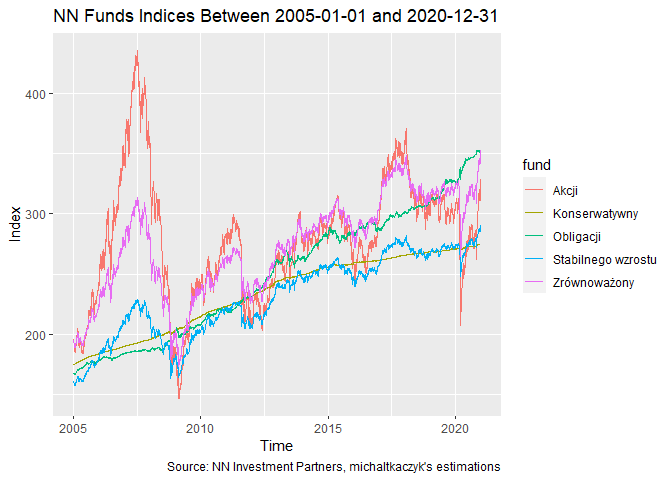
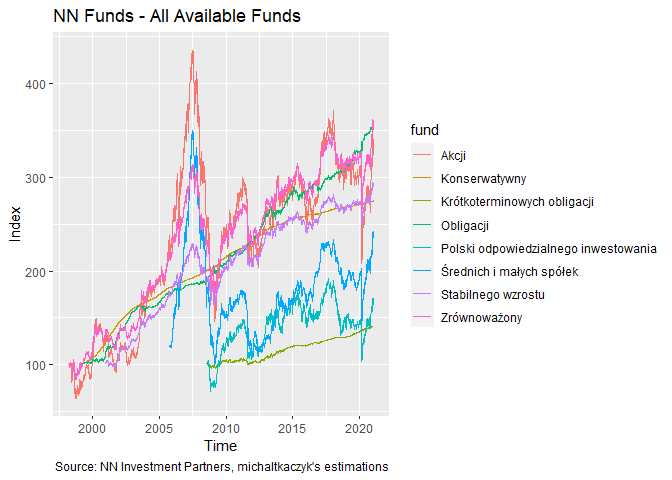
Update the main file

diff --git a/main.md b/main.md
@@ -30,22 +30,15 @@ funds_data <- HISTORICAL_DATA_PATH %>%
     left_join(funds_metadata) %>% 
     select(-fund) %>% 
     rename(fund = fund_short_name)
-
-funds_old_enough <- funds_data %>%
-    group_by(fund) %>%
-    summarise(start_day = min(date)) %>% 
-    filter(start_day <= START_DAY) %>% 
-    pull(fund)
-
-funds_data <- funds_data %>%
-    filter(fund %in% funds_old_enough & date >= START_DAY & date <= END_DAY)
 ```
+
+These are all the funds used in the analysis.
 
 ``` r
 ggplot(funds_data, aes(x = date, y = value, color = fund)) +
     geom_line() +
     labs(
-        title = paste("NN Funds Indices Between", START_DAY, "and", END_DAY),
+        title = "NN Funds - All Available Funds",
         caption = "Source: NN Investment Partners, michaltkaczyk's estimations") +
     xlab("Time") +
     ylab("Index")
@@ -53,12 +46,87 @@ ggplot(funds_data, aes(x = date, y = value, color = fund)) +
 
 ![](main_files/figure-gfm/unnamed-chunk-5-1.png)<!-- -->
 
-``` r
-funds_data_xts <- funds_data %>%
-    select(-value) %>% 
-    pivot_wider(names_from = fund, values_from = value_pct_change) %>% 
-    tk_xts()
+Let’s do some data processing here.
 
+First of all, let’s drop all founds that are not fully contained within
+a specified time period.
+
+``` r
+funds_old_enough <- funds_data %>%
+    group_by(fund) %>%
+    summarise(start_day = min(date)) %>%
+    filter(start_day <= START_DAY) %>% 
+    pull(fund)
+```
+
+    ## `summarise()` ungrouping output (override with `.groups` argument)
+
+``` r
+funds_data <- funds_data %>%
+    filter(fund %in% funds_old_enough & date >= START_DAY & date <= END_DAY)
+```
+
+Now, let’s change the format to `xts`, for convenience of calculations
+later on. In the meantime, I am replacing all `NA` values with zeros, so
+that they are not dropped in the next step.
+
+``` r
+funds_data <- funds_data %>%
+    pivot_wider(names_from = fund, values_from = value) %>% 
+    tk_xts()
+```
+
+    ## Warning: Non-numeric columns being dropped: date
+
+    ## Using column `date` for date_var.
+
+The next step is to change the granularity from daily to monthly. This
+should be enough for my purposes.
+
+``` r
+funds_data <- funds_data %>% 
+    to.monthly(indexAt = "yearmon", OHLC = FALSE)
+```
+
+Finally let’s change the absolute values to monthly rates of change.
+
+``` r
+funds_data <- funds_data %>% 
+    ROC()
+```
+
+Let’s see where we got after all of those manipulations.
+
+``` r
+funds_data_dates <- funds_data %>% 
+    index() %>% 
+    as_tibble() %>% 
+    rename(date = value)
+
+funds_data_long <- funds_data %>%
+    as_tibble() %>%
+    add_column(funds_data_dates) %>% 
+    pivot_longer(!date, "fund") %>%
+    replace_na(list(value = 0)) %>% 
+    group_by(fund) %>% 
+    arrange(date) %>% 
+    mutate(value = cumprod(value + 1)) %>% 
+    ungroup()
+
+ggplot(funds_data_long, aes(x = date, y = value, color = fund)) +
+    geom_line() +
+    labs(
+        title = "NN Funds - All Available Funds",
+        caption = "Source: NN Investment Partners, michaltkaczyk's estimations") +
+    xlab("Time") +
+    ylab("Index")
+```
+
+![](main_files/figure-gfm/unnamed-chunk-10-1.png)<!-- -->
+
+Let’s check some manually created portfolios’ performance.
+
+``` r
 manual_portfolios <- rbind(
     c(1, 0, 0, 0, 0),
     c(1, 1, 0, 0, 0),
@@ -73,9 +141,9 @@ manual_portfolios_results <- list()
 
 for (portfolio in 1:NROW(manual_portfolios)) {
     manual_portfolios_results[[portfolio]] <- 
-        Return.portfolio(funds_data_xts, manual_portfolios[portfolio, ]) %>%
+        Return.portfolio(funds_data, manual_portfolios[portfolio, ]) %>%
         as_tibble() %>% 
-        add_column(date = index(funds_data_xts)) %>% 
+        add_column(date = index(funds_data)) %>% 
         mutate(portfolio = paste("portfolio", portfolio)) %>% 
         rename(value = portfolio.returns)
 }
@@ -96,4 +164,4 @@ ggplot(portfolio_comparison, aes(x = date, y = value, color = portfolio)) +
     ylab("Index")
 ```
 
-![](main_files/figure-gfm/unnamed-chunk-7-1.png)<!-- -->
+![](main_files/figure-gfm/unnamed-chunk-12-1.png)<!-- -->
